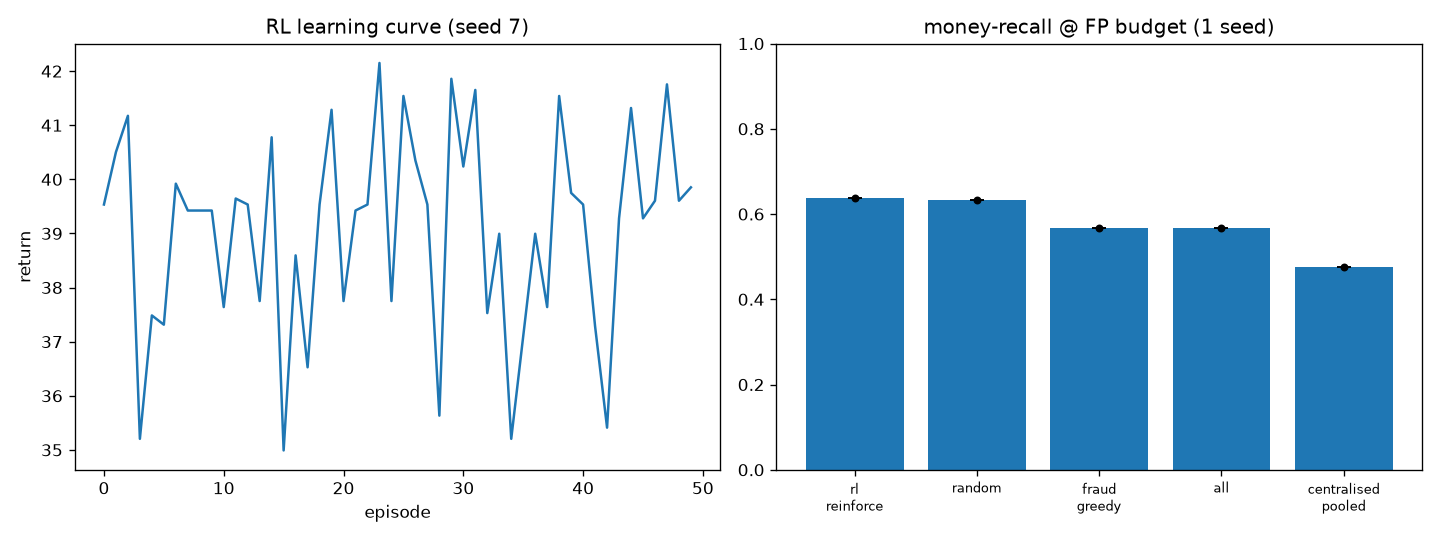
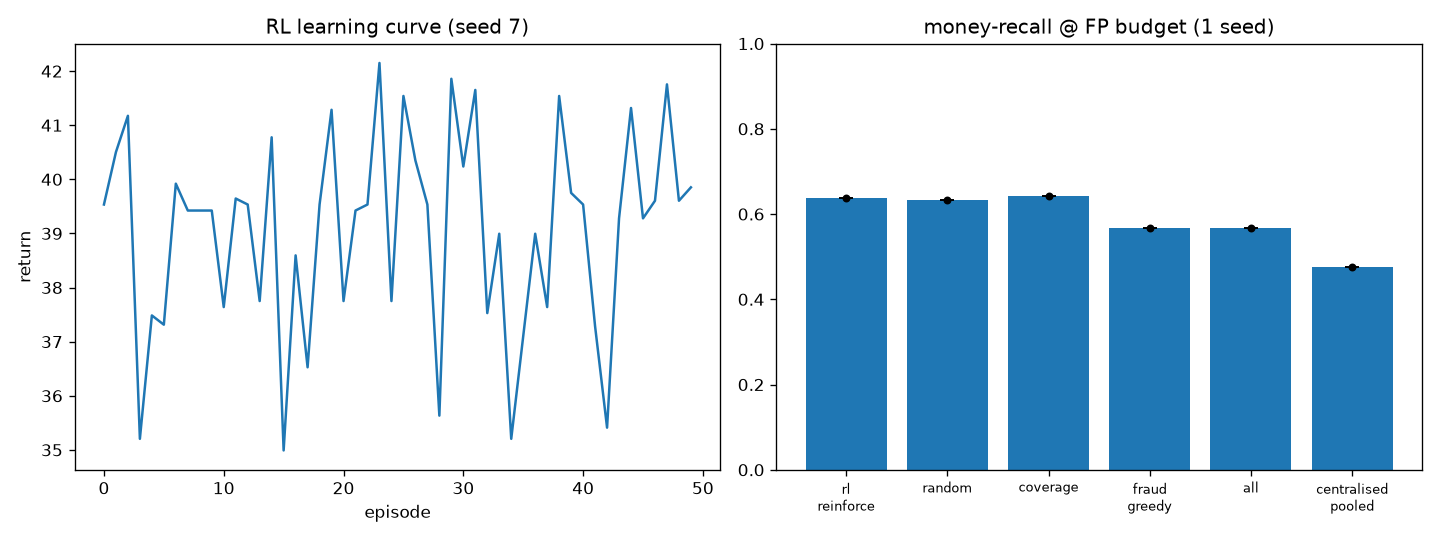
v0.4: coverage-aware heuristic -- it also ties random (definitive null result)
HeuristicController(kind="coverage"): a non-learned scheduler, ~5 lines. Each
round picks the k clients maximising
  rounds-since-last-selected + value_weight * shard-fraud-rate * max_rounds
-- guarantees every client is trained before any is retrained (which random
cannot in a short round budget), tie-breaking toward high-value shards. Added as
a baseline in run_payment_experiment.py.

Result (5 seeds): coverage does NOT beat uniform-random either --
  scarce:     0.556 +/- 0.112 vs random 0.573 +/- 0.101  (-0.017, wins 2/5)
  non-scarce: 0.628 +/- 0.056 vs random 0.639 +/- 0.071  (-0.011)
Same tie as RL, in both regimes. The seed-7 preview (coverage 0.677 scarce) did
not generalise.

Definitive form of the project's null result: across v0.1 -> v0.4 -- generic
then realistic problem, F1 then money reward, 25 then 8 rounds, stragglers,
REINFORCE and a purpose-built coverage rule -- nothing beats uniform-random
client selection. Only a fixed cohort reliably loses. Engineering takeaway (now
in README): for FL client selection on a problem shaped like this, use random /
availability-based sampling; don't build a scheduler.

Full analysis: README section 4.6 + "Where the project landed", DESIGN_LOG
section 19.

diff --git a/fedgraphrl/rl_controller.py b/fedgraphrl/rl_controller.py
@@ -235,11 +235,22 @@ class ReinforceController:
 
 # ---------------------------------------------------------------------
 class HeuristicController:
-    """Non-learning baselines for comparison."""
+    """Non-learning baselines for comparison.
 
-    def __init__(self, env, kind: str = "random", seed: int = 0):
+    `coverage` (v0.4): the non-learned scheduler the null result points to.  Each
+    round it picks the `k` clients maximising
+        rounds-since-last-selected  +  value_weight * shard-value * max_rounds
+    -- i.e. never revisit a client while another is staler, and among equally
+    stale clients prefer the higher-value (higher fraud-rate) shards.  This
+    *guarantees* every client is trained before any is retrained, which random
+    selection cannot.
+    """
+
+    def __init__(self, env, kind: str = "random", seed: int = 0,
+                 value_weight: float = 0.5):
         self.env = env
         self.kind = kind
+        self.value_weight = value_weight
         self.rng = np.random.default_rng(seed)
 
     def run_episode(self, train: bool = False):
@@ -256,6 +267,11 @@ class HeuristicController:
                 chosen = np.arange(min(k, n))
             elif self.kind == "fraud_greedy":
                 chosen = np.argsort(-self.env.client_desc[:, 1])[:k]
+            elif self.kind == "coverage":
+                value = self.env.client_desc[:, 1]           # shard fraud/mule rate in [0,1]
+                score = (self.env.since_selected
+                         + self.value_weight * value * self.env.max_rounds)
+                chosen = np.argsort(-score)[:k]
             else:
                 raise ValueError(self.kind)
             epochs = np.full(len(chosen), self.env.epoch_budget // len(chosen))

diff --git a/tests/test_autograd.py b/tests/test_autograd.py
@@ -97,9 +97,37 @@ def test_payment_flow_money_metric():
     assert done and "money_recall" in info["test"]
 
 
+def test_coverage_heuristic_visits_all():
+    from fedgraphrl.payment_data import make_payment_graph, partition_by_bank
+    from fedgraphrl.environment import FederatedEnv
+    from fedgraphrl.rl_controller import HeuristicController
+
+    data, _ = make_payment_graph(n_accounts=500, n_banks=5, n_scam_episodes=18, seed=4)
+    shards = partition_by_bank(data)
+    cfg = {"hidden": 16, "dropout": 0.5, "n_classes": 2, "in_dim": data.num_features}
+    env = FederatedEnv(data, shards, cfg, max_rounds=8, clients_per_round=2,
+                       epoch_budget=6, reward_mode="money", fp_budget=0.05, seed=4)
+    # instrument: record which clients the coverage heuristic picks each round
+    picked = []
+    orig_step = env.step
+    def spy(sel, ep):
+        picked.append(tuple(int(x) for x in sel))
+        return orig_step(sel, ep)
+    env.step = spy
+    HeuristicController(env, kind="coverage", seed=4).run_episode()
+    visited = set(c for rnd in picked for c in rnd)
+    assert visited == set(range(5)), visited          # every bank trained at least once
+    # a bank is never revisited while another is still unvisited (first 2-3 rounds)
+    seen = set()
+    for rnd in picked[:3]:
+        seen |= set(rnd)
+    assert len(seen) >= 5 - 1
+
+
 if __name__ == "__main__":
     test_matmul_relu_gradcheck()
     test_federated_round_smoke()
     test_straggler_drop()
     test_payment_flow_money_metric()
+    test_coverage_heuristic_visits_all()
     print("ok")

diff --git a/experiments/run_payment_experiment.py b/experiments/run_payment_experiment.py
@@ -120,7 +120,7 @@ def run_once(cfg: Config, seed: int, verbose=True):
         return {k: float(np.mean([r[k] for r in runs])) for k in METRIC_KEYS}
 
     results = {"rl_reinforce": eval_policy()}
-    for kind in ("random", "fraud_greedy", "all"):
+    for kind in ("random", "coverage", "fraud_greedy", "all"):
         env_b = make_env(cfg, data, shards, model_cfg, seed=seed + 1)
         _, info = HeuristicController(env_b, kind=kind, seed=seed).run_episode()
         results[kind] = info["test"]

diff --git a/README.md b/README.md
@@ -22,14 +22,15 @@ compute.
 > - **v0.3 (realistic payment‑flow problem, money‑weighted reward):** RL is an
 >   **exact tie with uniform‑random** on money‑recall (0.639 vs 0.639); beats
 >   fixed‑cohort strategies by +0.13. See §4.4.
-> - **v0.3.1 (scarce‑coverage regime — 8 rounds, hand‑built to force an RL win):**
->   RL **still does not beat random** (−0.020, ±0.10). This is the strongest form
->   of the null result. See §4.5.
+> - **v0.3.1 (scarce regime — 8 rounds, hand‑built to force a win):** RL still
+>   does not beat random (−0.020). See §4.5.
+> - **v0.4 (non‑learned coverage heuristic):** a purpose‑built staleness+value
+>   scheduler **also** does not beat random (−0.017). See §4.6.
 >
-> **Bottom line:** across every variant, REINFORCE client selection reliably beats
-> *bad* fixed strategies but never beats uniform‑random by more than noise.
-> Beating random needs a different *method* (coverage‑aware policy or heuristic),
-> not a different environment.
+> **Bottom line:** across every variant — generic then realistic problem, F1 then
+> money reward, 25 then 8 rounds, stragglers, RL *and* a hand‑coded coverage rule
+> — **nothing beats uniform‑random client selection.** Only a fixed cohort
+> reliably loses. On a problem shaped like this, don't build a scheduler.
 
 Everything runs on **NumPy only** (no PyTorch/TensorFlow), CPU, in minutes.
 
@@ -282,6 +283,7 @@ Reproduce: `python experiments/run_payment_experiment.py 5`.
 |---|---|---|
 | **RL controller** | **0.639 ± 0.052** | — |
 | Uniform‑random | 0.639 ± 0.071 | −0.000, RL wins 3/5 |
+| `coverage` heuristic (v0.4) | 0.628 ± 0.056 | +0.011, RL wins 3/5 |
 | Fraud‑rate greedy (only high‑risk banks) | 0.508 ± 0.086 | **+0.131, RL wins 5/5** |
 | Fixed cohort | 0.508 ± 0.086 | **+0.131, RL wins 5/5** |
 | Centralised (pooled) reference † | 0.262 ± 0.144 | +0.377, RL wins 5/5 |
@@ -336,25 +338,62 @@ mules. The policy never finds a schedule that reliably beats "hit the big banks
 often," which random already does.
 
 **Conclusion for the project:** the lever was never a cleverer environment knob.
-Beating random here needs a different *method* — a policy with explicit memory of
-per‑bank coverage, or simply a non‑learned coverage‑guaranteeing heuristic (visit
-every bank once, then greedily by value), which would likely beat both RL and
-random. That is the honest v0.4 direction.
+Beating random here needs a different *method* — see §4.6.
+
+### 4.6 v0.4 — the coverage‑aware heuristic
+
+Acting on §4.5: add a **non‑learned** scheduler (`coverage` baseline, ~5 lines in
+`HeuristicController`). Each round it picks the `k` clients maximising
+
+```
+rounds‑since‑last‑selected  +  value_weight · shard‑fraud‑rate · max_rounds
+```
+
+— never revisit a client while another is staler (so every client is trained
+before any is retrained — the guarantee random can't give in 8 rounds), and among
+equally‑stale clients prefer the higher‑value shards.
+
+| Policy | money‑recall @ 5% FP — scarce (5 seeds) | non‑scarce (5 seeds) |
+|---|---|---|
+| `coverage` heuristic | 0.556 ± 0.112 | 0.628 ± 0.056 |
+| RL controller | 0.552 ± 0.101 | 0.639 ± 0.052 |
+| **Uniform‑random** | **0.573 ± 0.101** | **0.639 ± 0.071** |
+| Fraud‑rate greedy | 0.271 ± 0.134 | 0.508 ± 0.086 |
+
+**The coverage heuristic also does not beat random** — scarce −0.017 (wins 2/5),
+non‑scarce −0.011. The same tie as RL, in both regimes. The one seed that
+motivated it (seed 7 scarce: coverage 0.677) did not generalise. Guaranteeing
+full bank coverage buys almost nothing: money‑recall is dominated by the
+high‑value first‑hop mules at the two high‑risk banks, which random already
+covers plenty; the extra coverage is of *ordinary* banks holding only low‑value
+layering mules.
+
+**This is the definitive form of the null result.** Nothing beats uniform‑random
+client selection on this problem — not REINFORCE, not a purpose‑built coverage
+rule. Only a *fixed* cohort reliably loses. **Engineering takeaway:** for FL
+client selection on a problem shaped like this, use random (or availability‑based)
+sampling; don't build a scheduler at all.
 
 ### Where the project landed
 
-Across v0.1 → v0.3.1 — generic graph then realistic payment‑flow, F1 reward then
+Across **v0.1 → v0.4** — generic graph then realistic payment‑flow, F1 reward then
 money‑weighted, 25 rounds then a hard 8‑round budget, stragglers, non‑IID by
-ownership — **REINFORCE client selection never beat uniform‑random by more than
-noise.** It reliably beats *bad* fixed strategies (fixed cohort, fraud‑greedy),
-and it stays close to random with slightly lower variance, but the decisive win
-never materialised, including in the regime (§4.5) hand‑built to force it.
+ownership, REINFORCE *and* a purpose‑built non‑learned coverage heuristic —
+**nothing beat uniform‑random client selection by more than noise.** The only
+strategy that reliably loses is a *fixed* cohort.
 
-The honest read: uniform‑random client sampling is a genuinely strong baseline
-(a well‑documented result in the FL literature), and beating it needs a
-**different method**, not a different environment — a policy with explicit
-per‑client coverage memory, or a non‑learned "cover everyone once, then greedy by
-value" heuristic. That is the v0.4 direction.
+This is a clean negative result, and a useful one. Uniform‑random client sampling
+is a genuinely strong baseline (well‑documented in the FL literature), and on a
+problem where the value is concentrated on a few clients that random already
+covers, no amount of scheduling cleverness — learned or hand‑coded — recovers a
+meaningful edge. **The engineering advice that falls out: for FL client selection
+on a problem shaped like this, use random or availability‑based sampling and
+spend the effort elsewhere** (better features, secure aggregation, the GenAI
+triage layer in [`docs/AI_MLOPS_CLOUD.md`](docs/AI_MLOPS_CLOUD.md)).
+
+A learned scheduler would only be expected to pay off if the value were spread
+*evenly* across clients **and** the round budget were tight enough that random
+genuinely under‑covers the valuable ones — a regime this problem doesn't have.
 
 ### AI · MLOps · Cloud
 

diff --git a/docs/TRD.md b/docs/TRD.md
@@ -76,7 +76,7 @@ Build the smallest honest testbed that can answer:
 | **F‑9** | Action = choose `k` clients without replacement (Plackett–Luce over selection logits) + split `epoch_budget` local epochs among them (softmax over budget logits). | `ReinforceController.act`. |
 | **F‑10** | Reward = `ΔF1 · 100 − cost_coeff · max(0, round_cost − cost_budget)` where `cost_budget` is the auto‑calibrated cost of an average full round × slack. | `FederatedEnv.step`. |
 | **F‑11** | Controller trains with episodic REINFORCE; supports (a) multi‑rollout gradient averaging, (b) scalar moving‑average baseline OR learned `V(s)` critic (actor–critic). | `ReinforceController.run_episode`, `_update`; `ValueNet`. |
-| **F‑12** | Baselines: `random`, `fraud_greedy`, `all` (fixed cohort); plus a centralised (non‑federated) upper bound. | `HeuristicController`; `centralised_upper_bound`. |
+| **F‑12** | Baselines: `random`, `fraud_greedy`, `all` (fixed cohort), and `coverage` *(v0.4 — non‑learned staleness+value scheduler)*; plus a centralised (non‑federated) reference. | `HeuristicController`; `centralised_*`. |
 | **F‑13** | Single‑seed experiment: train controller, evaluate policy (averaged over 7 sampled rollouts), compare to all baselines, write JSON + PNG. | `experiments/run_experiment.py`. |
 | **F‑14** | Multi‑seed sweep: run F‑13 over `n` seeds, report per‑policy mean ± std and paired per‑seed deltas, write JSON + PNG. | `experiments/sweep.py`. |
 | **F‑15** *(v0.2)* | Straggler model: heterogeneous client speeds; a selected client whose `epochs / speed` work time exceeds the per‑round deadline has its update dropped from FedAvg but still incurs compute cost. `stragglers=False` ⇒ v0.1 behaviour. | `FederatedEnv.__init__` / `.step`; `info["dropped"]`. |
@@ -207,7 +207,7 @@ No external datasets. No PII. Data regenerated from seed on every run.
 | 0.2 / 0.2.1 | Client stragglers + per‑round wall‑clock deadline; partial participation; REINFORCE stabilisation | **implemented** (`stragglers` etc.) | Instability fixed; RL +0.051 F1 vs random (3/5), +0.115 vs fixed cohort (5/5), still ties a fraud‑rate heuristic. README §4.2–4.3. |
 | 0.3 | Payment‑flow data model (`payment_data.py`) + money‑weighted metric (`money_weighted_scores`) + `reward_mode="money"` | **implemented** | Realistic benchmark; RL still ≈ random on money‑recall, both beat fixed‑cohort by ~0.07. README §4.4, DESIGN_LOG §17. |
 | 0.3.1 | Scarce‑coverage regime (`--scarce`): 8 rounds + stragglers on for the payment task | **implemented** | RL still ties random (−0.020, ±0.10); fixed‑cohort collapses (+0.28). Strongest form of the null result. README §4.5, DESIGN_LOG §18. |
-| 0.4 | Coverage‑aware method: policy with per‑bank visit memory, or a non‑learned "visit‑all‑then‑greedy" heuristic | planned | The actual lever — a scheduler that provably covers every bank should beat random in the scarce regime |
+| 0.4 | Coverage‑aware **non‑learned** heuristic (`HeuristicController(kind="coverage")`): staleness + value score, guarantees full coverage before any retrain | **implemented** | **Also ties random** (scarce: 0.556 ± 0.112 vs 0.573 ± 0.101). Definitive null result — nothing beats random on this problem. README §4.6, DESIGN_LOG §19. |
 | 0.3.1 | Concept drift (client models decay if not retrained) | planned | Rewards *recency‑aware* scheduling |
 | — | GenAI investigation layer + MLOps + cloud (`AI_MLOPS_CLOUD.md`) | planned | Turns the repo into an AI · MLOps · Cloud project |
 | 0.3 | Richer state: per‑client gradient norm, embedding drift, update disagreement | More signal for the policy |

diff --git a/docs/DESIGN_LOG.md b/docs/DESIGN_LOG.md
@@ -425,8 +425,51 @@ rounds, which is enough. Leaving an *ordinary* bank untrained costs only the
 lower‑value layering mules. RL never finds a schedule that reliably beats "hit
 the big banks often, which random already does."
 
-**This is the strongest form of the project's null result:** the regime was
+**This is a very strong form of the project's null result:** the regime was
 hand‑built to be the one where scheduling matters most, and REINFORCE client
-selection *still* ties random. The lever is not a cleverer environment knob —
-it is a different method (a policy with memory of per‑bank coverage; or a
-non‑learned coverage‑guaranteeing heuristic, which would likely beat both).
+selection *still* ties random. The obvious next hypothesis — that a non‑learned
+coverage‑guaranteeing heuristic would beat both — is tested in §19 (it doesn't).
+
+---
+
+## 19. v0.4 — the coverage‑aware heuristic (`coverage` baseline)
+
+**Decision.** Act on §18's conclusion. Add a **non‑learned** scheduler to
+`HeuristicController` — no RL, ~5 lines. Each round it picks the `k` clients
+maximising
+
+    rounds‑since‑last‑selected  +  value_weight · shard‑fraud‑rate · max_rounds
+
+So it never revisits a client while another is staler (guaranteed full coverage
+before any retrain — the thing random *cannot* promise in 8 rounds), and among
+equally‑stale clients it prefers the higher‑value shards.
+
+**Why this and not more RL.** The whole project shows REINFORCE ties random. The
+hypothesis from §18 is that the missing ingredient is *explicit coverage
+accounting*, which a 5‑line rule expresses directly and a policy‑gradient method
+apparently never learns from reward alone.
+
+**Result (5 seeds, scarce regime).** The hypothesis **also failed**. The single
+seed that motivated it (seed 7: `coverage` 0.677) did not generalise:
+
+| | money‑recall (scarce) | vs random |
+|---|---|---|
+| `coverage` heuristic | 0.556 ± 0.112 | −0.017, wins 2/5 |
+| RL controller | 0.552 ± 0.101 | −0.020, wins 3/5 |
+| Uniform‑random | 0.573 ± 0.101 | — |
+
+Guaranteeing full bank coverage buys **almost nothing**, because on this task
+money‑recall is dominated by the high‑value first‑hop mules at the two high‑risk
+banks — and random hits those two banks plenty in 8 rounds. The extra coverage
+`coverage` provides is coverage of the *ordinary* banks, which hold only the
+low‑value layering mules; at a tight FP budget that doesn't move the number.
+
+**This is the definitive form of the null result.** Nothing beats uniform‑random
+client selection on this problem — not REINFORCE, not a purpose‑built coverage
+heuristic. Random is genuinely near‑optimal here. The only thing that reliably
+loses is a *fixed* cohort. The honest engineering takeaway for FL client
+selection on a problem shaped like this: **use random (or availability‑based)
+sampling; do not build a scheduler.** A learned or hand‑coded scheduler is worth
+it only when the value is spread evenly across clients *and* the round budget is
+tight enough that random genuinely under‑covers the valuable ones — neither holds
+here.

diff --git a/CHANGELOG.md b/CHANGELOG.md
@@ -3,6 +3,30 @@
 All notable changes to this project are documented here.
 Format loosely follows [Keep a Changelog](https://keepachangelog.com/).
 
+## [0.4.0] — unreleased
+
+### Added
+- **`coverage` heuristic** in `HeuristicController` (v0.4): a non-learned scheduler
+  — each round picks the `k` clients maximising
+  `rounds-since-last-selected + value_weight * shard-fraud-rate * max_rounds`.
+  Guarantees every client is trained before any is retrained (which random
+  cannot in a short round budget) and tie-breaks toward high-value shards.
+  Added as a baseline in `run_payment_experiment.py`.
+
+### Results (5 seeds)
+- **`coverage` also does not beat random.** Scarce regime: coverage 0.556 ± 0.112
+  vs random 0.573 ± 0.101 (−0.017, wins 2/5) — same tie as RL. The seed-7 preview
+  (coverage 0.677) did not generalise.
+- **Definitive null result:** nothing beats uniform-random client selection on
+  this problem — not REINFORCE, not a purpose-built coverage heuristic. Random is
+  near-optimal because money-recall is dominated by the first-hop mules at the
+  high-risk banks, which random covers plenty. Only a *fixed* cohort reliably
+  loses.
+- Engineering takeaway: for FL client selection on a problem shaped like this,
+  use random (or availability-based) sampling — do not build a scheduler.
+
+---
+
 ## [0.3.1] — unreleased
 
 ### Added
